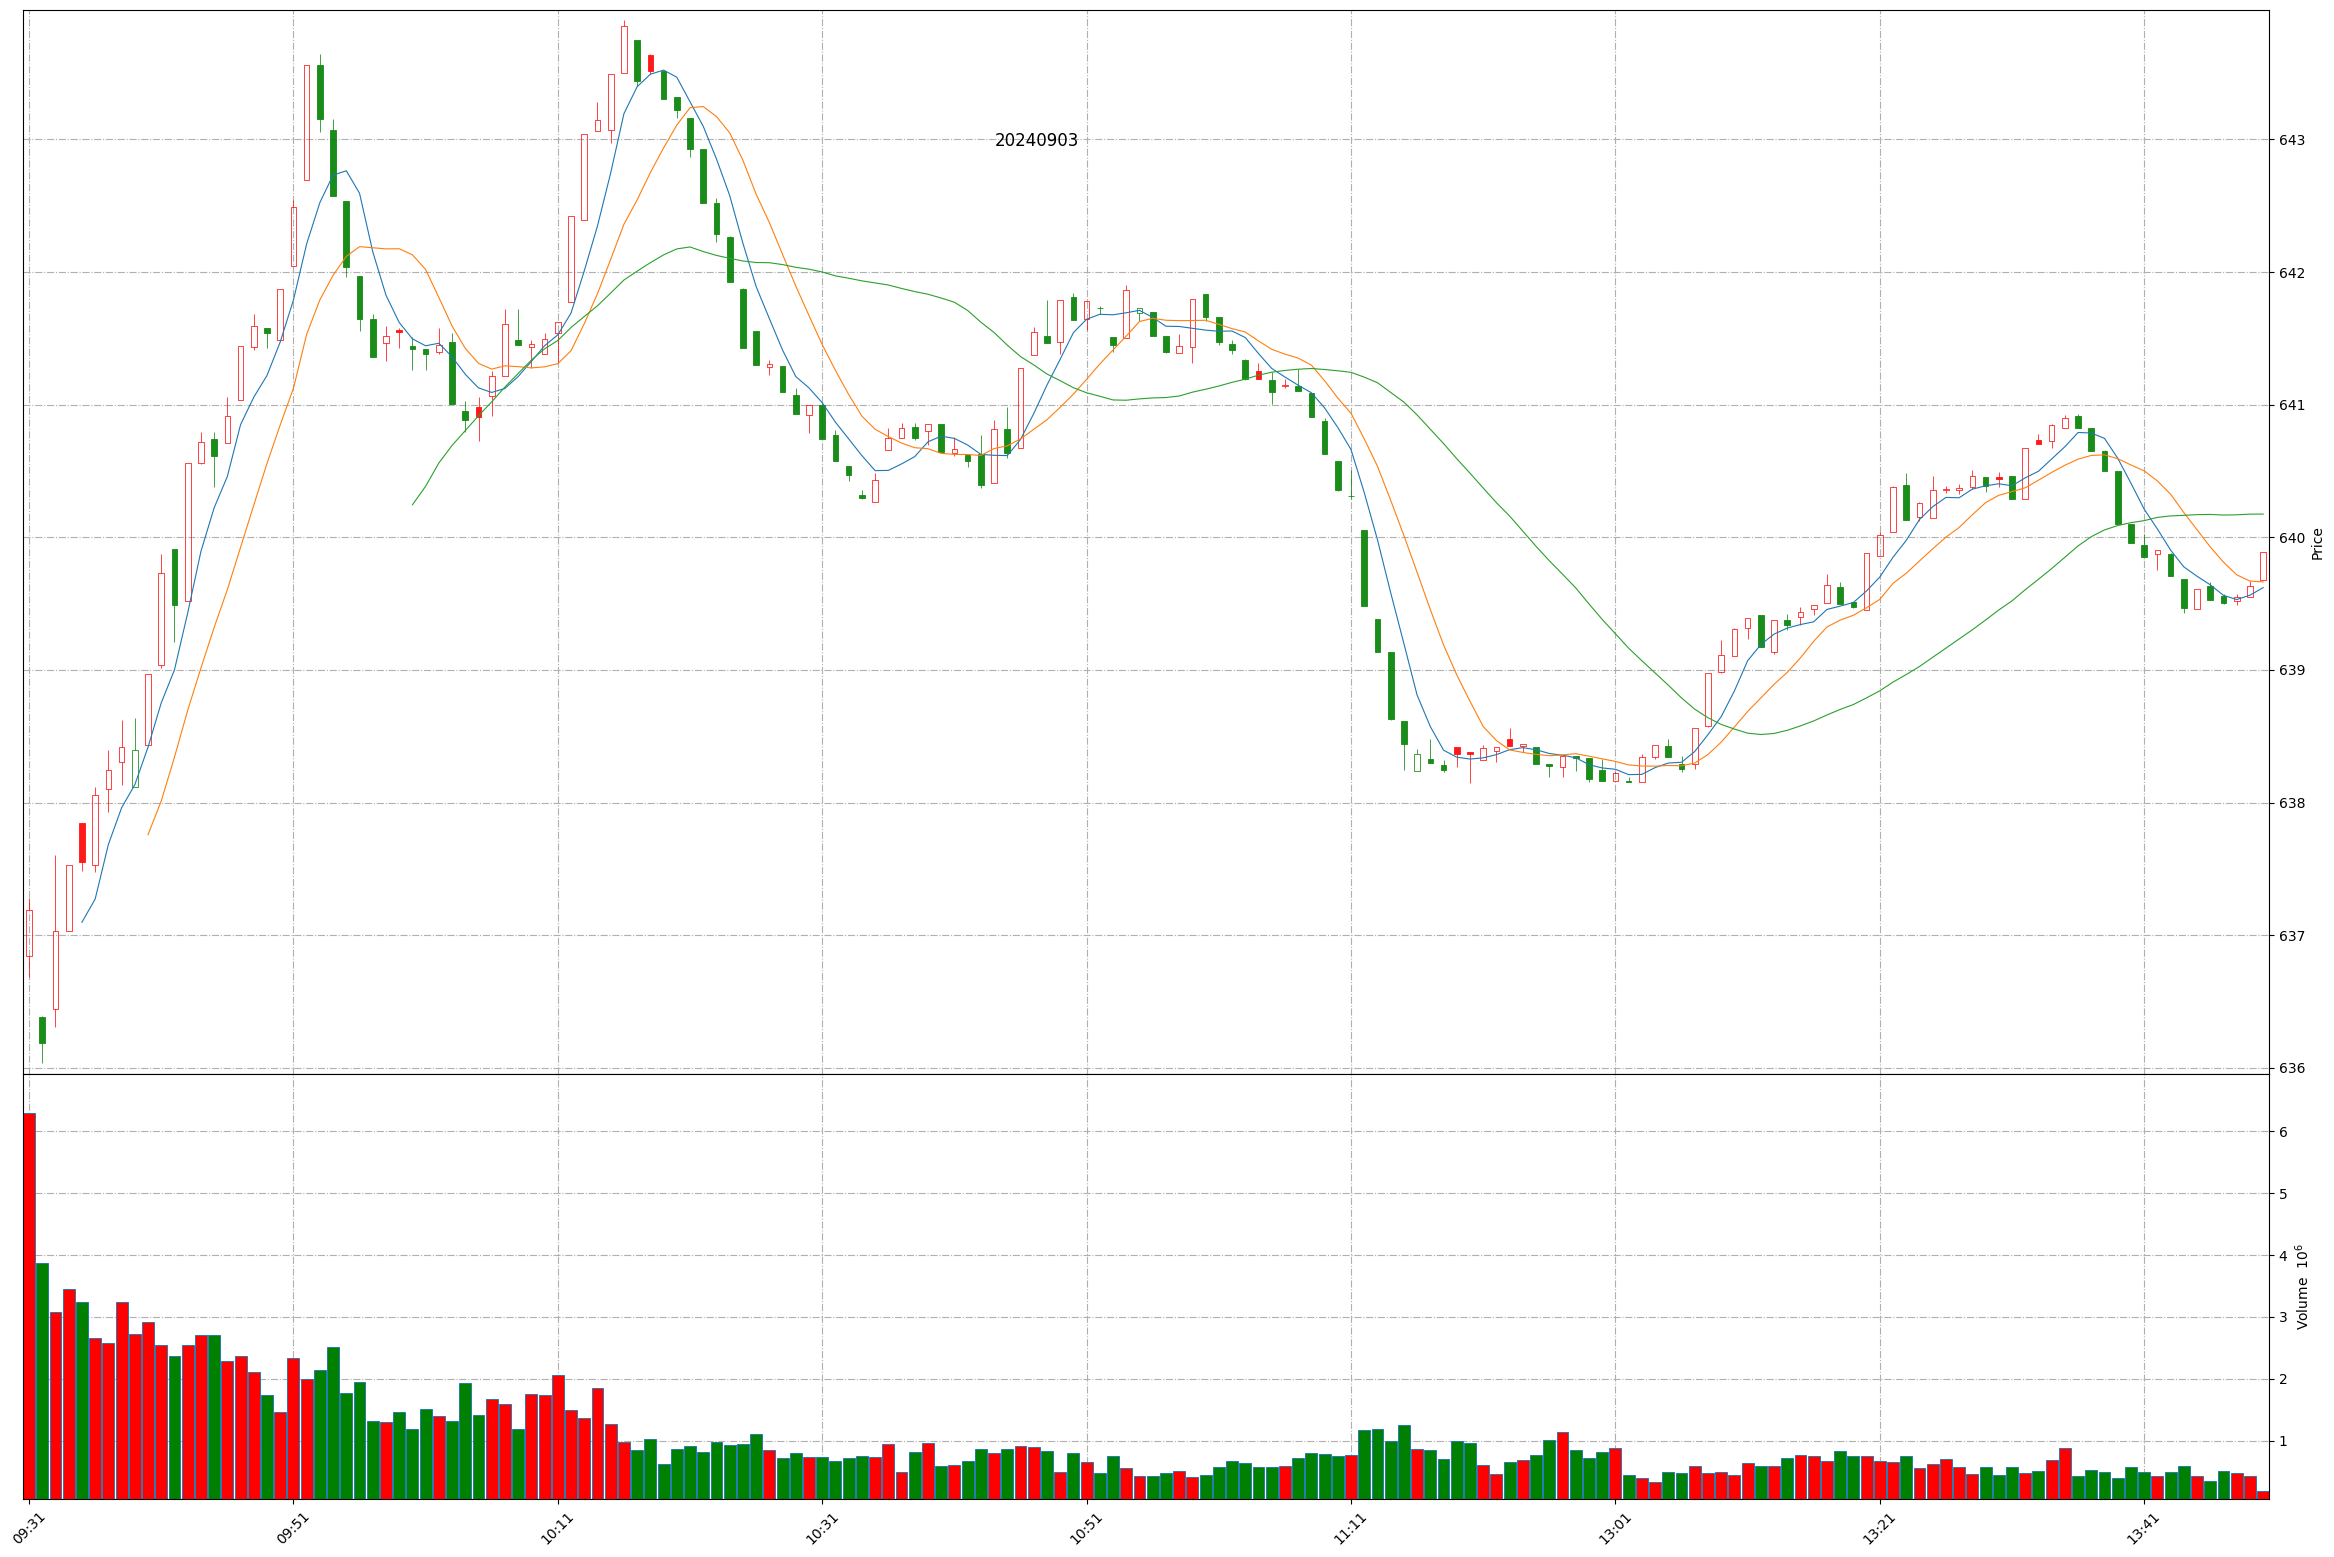
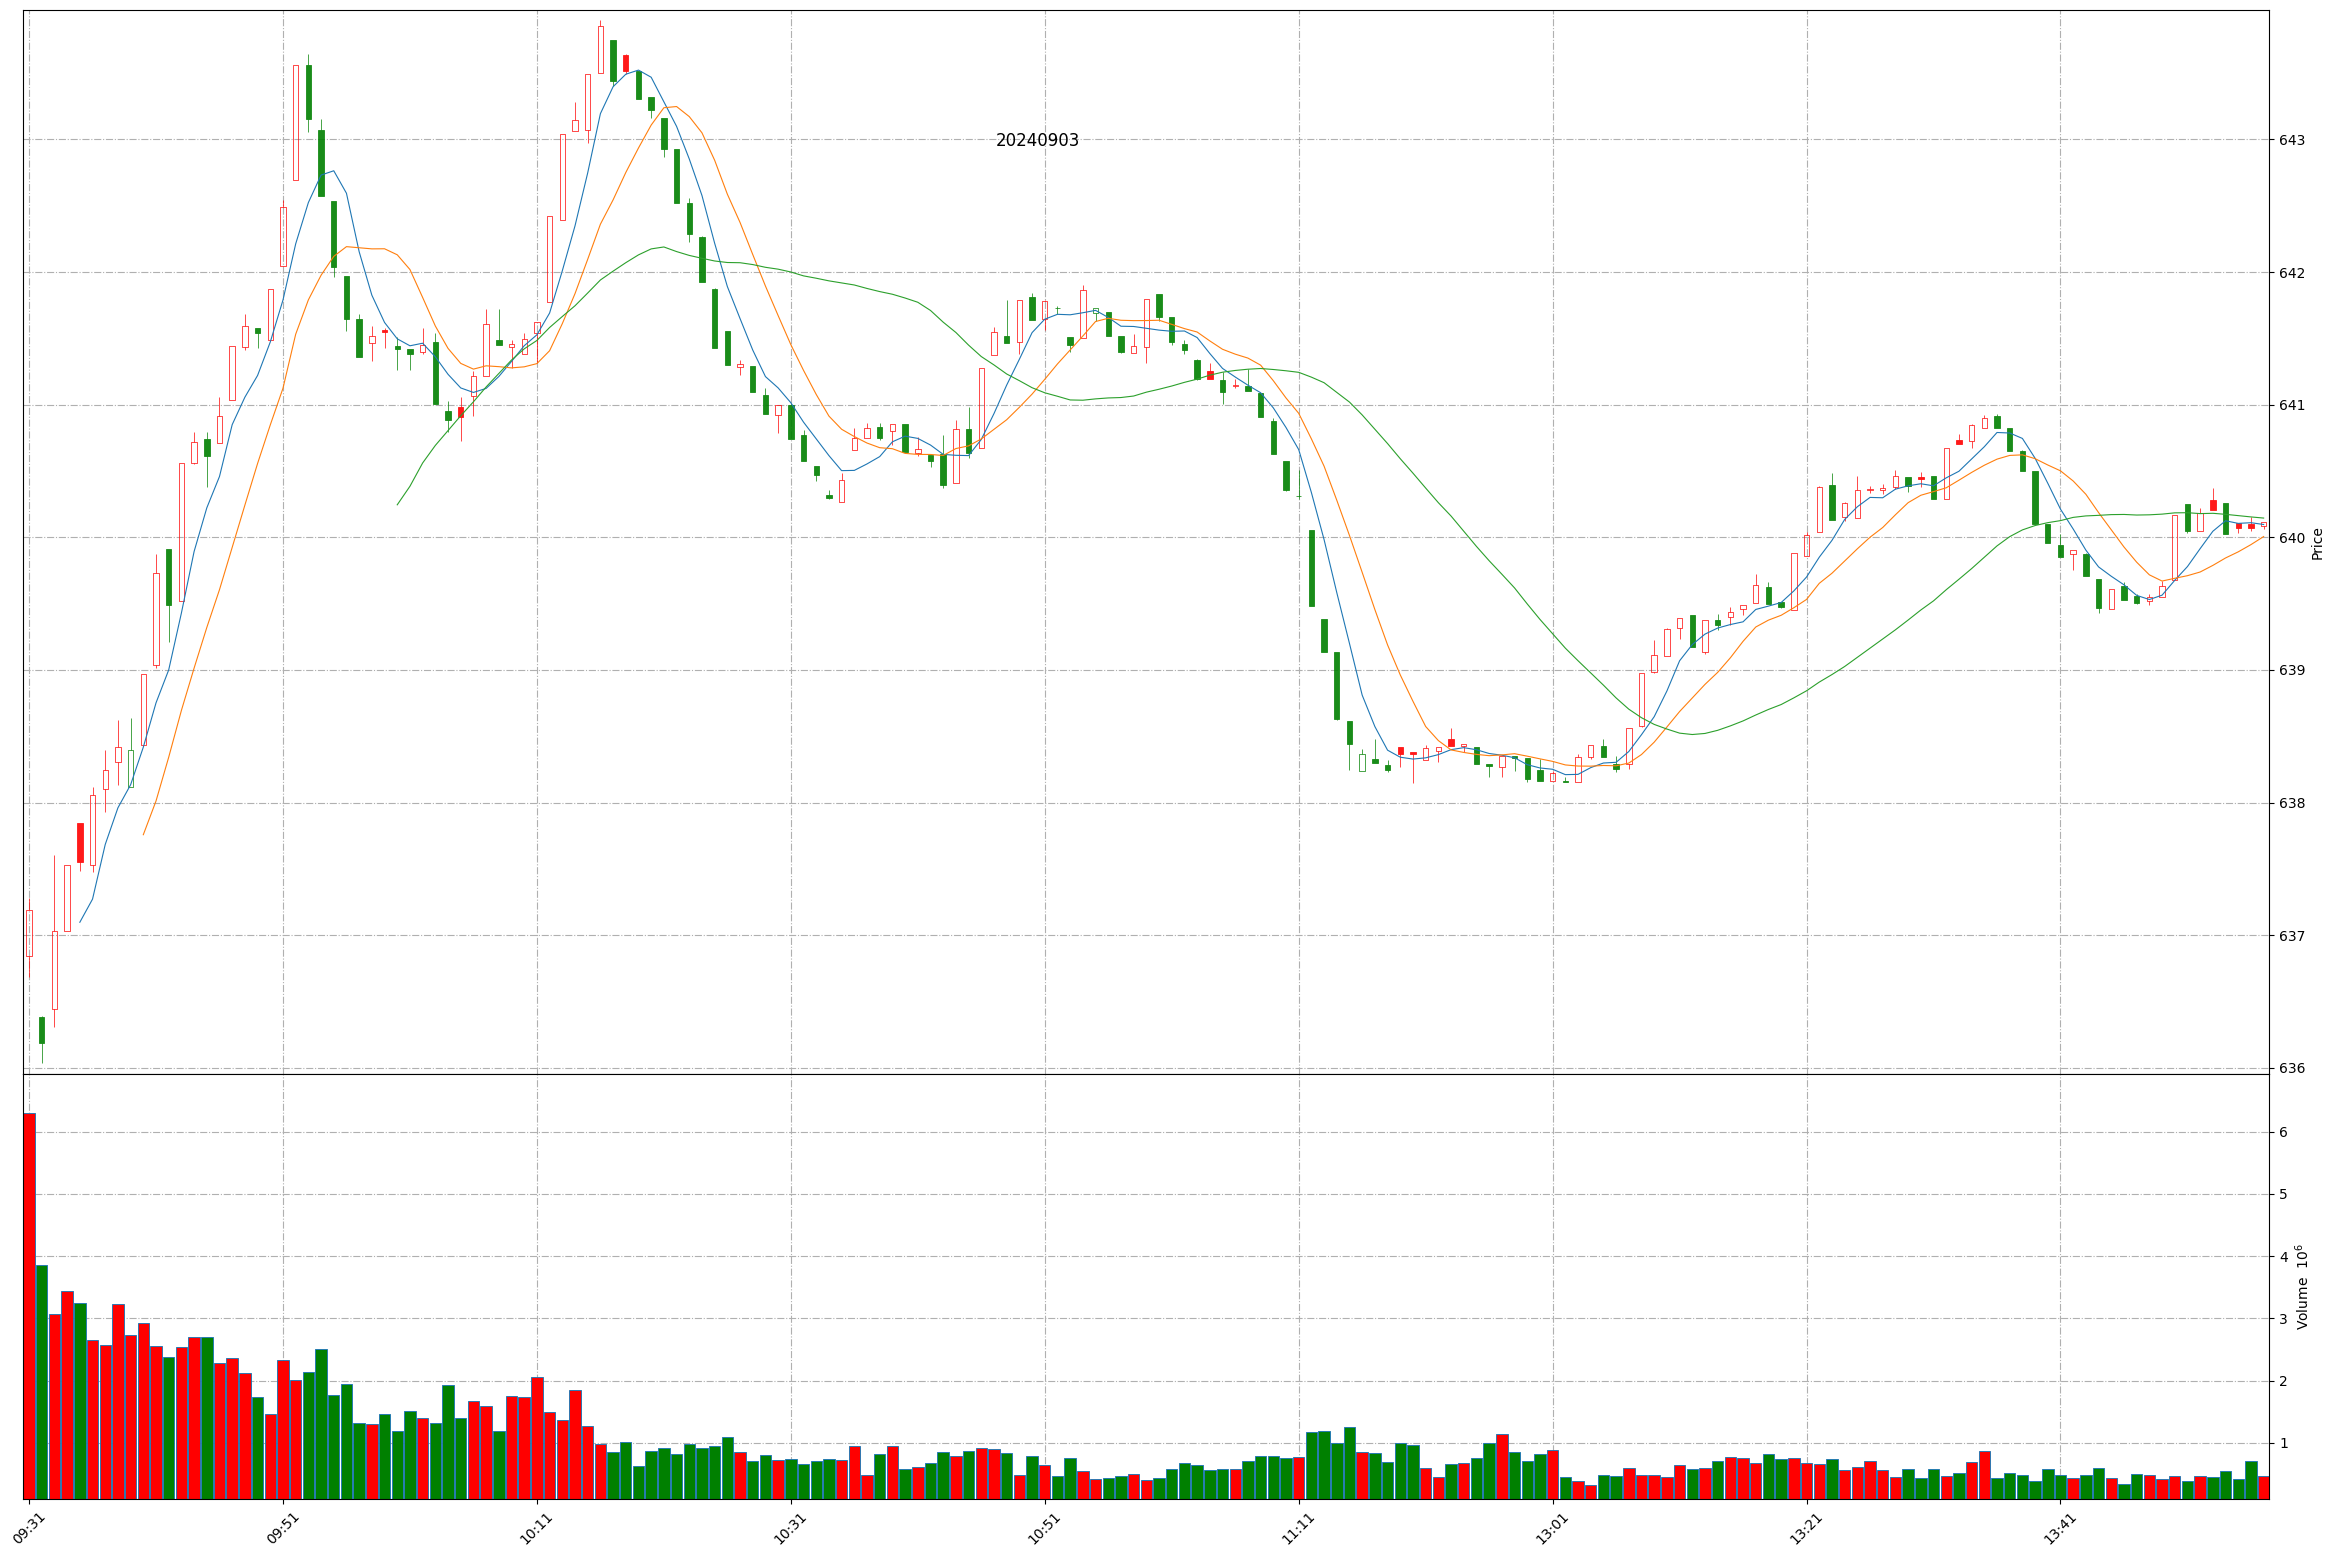
Github action update at 2024-09-03 13:56:56.

Changed region(s): [[0.0308, 0.0308, 1.0, 0.5549], [0.0308, 0.8324, 0.9871, 0.9865], [0.4319, 0.0617, 0.4627, 0.0925]]

diff --git a/README.md b/README.md
@@ -1,11 +1,11 @@
 
 # Daily-A-share-market-quotes 每日 A 股指数（5min 更新）- 20240903
 
-### 上证指数 20240903 13:49
+### 上证指数 20240903 13:56
 ![](./fig/2024/9/20240903-sh000001.png)
 
-### 深证成指 20240903 13:49
+### 深证成指 20240903 13:56
 ![](./fig/2024/9/20240903-sz399001.png)
 
-### 北证50 20240903 13:49
+### 北证50 20240903 13:56
 ![](./fig/2024/9/20240903-bj899050.png)
